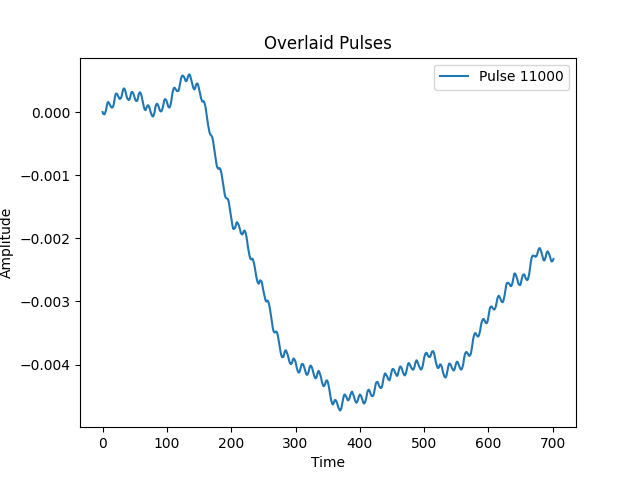
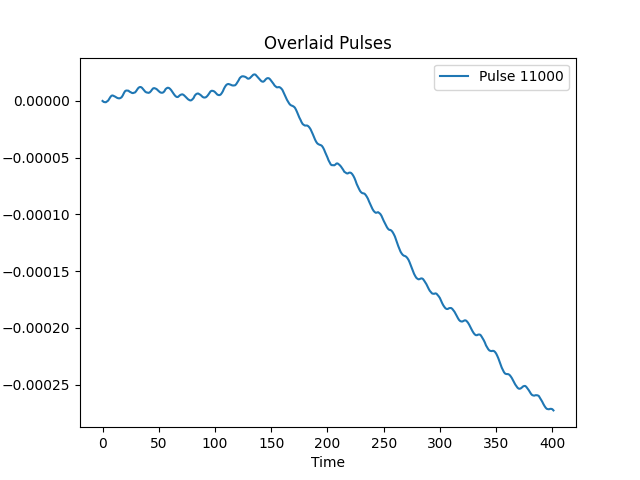
modified params for opt fit

diff --git a/dataflow/PNR/06_optimal_fitting.py b/dataflow/PNR/06_optimal_fitting.py
@@ -35,11 +35,11 @@ BASE_DIR = Path(__file__).resolve().parent.parent.parent.parent / "tes01"
 # edit here
 #pulse
 period1 = "07"
-run1 = "006"
+run1 = "008"
 channel1 = "1"  # Channel number, add "Cn" if needed.  #For P03,C1 is SQUID and C2 is HBT
 #noise
 period2 = "07"
-run2 = "005"
+run2 = "009"
 channel2 = "1"
 
 rcfilt = True
@@ -49,7 +49,7 @@ cnr = False
 #Opt filter params
 Max_freq = 5*10**7    #max freqency 
 phmin = -0.1      #Lower range of maximum-amplitude[V] in range of timin-timax used for averaging
-phmax = 0.000       #Higher range of maximum-amplitude[V] in range of timin-timax used for averaging
+phmax = 0.005       #Higher range of maximum-amplitude[V] in range of timin-timax used for averaging
 timin = 200         #minimum time index[int] used for averaging *make sure this interval contains peak
 timax = 300         #maximum time index[int] used for averaging *make sure this interval contains peak
 tcut = 600          #sample cutting from bottom

diff --git a/dataflow/PNR/05_rc_filtering.py b/dataflow/PNR/05_rc_filtering.py
@@ -31,7 +31,7 @@ BASE_DIR = Path(__file__).resolve().parent.parent.parent.parent / "tes01"
 
 # edit here
 period = "07"
-run = "005"
+run = "009"
 channels = ["1",
             #"2"
             # ,"4"
